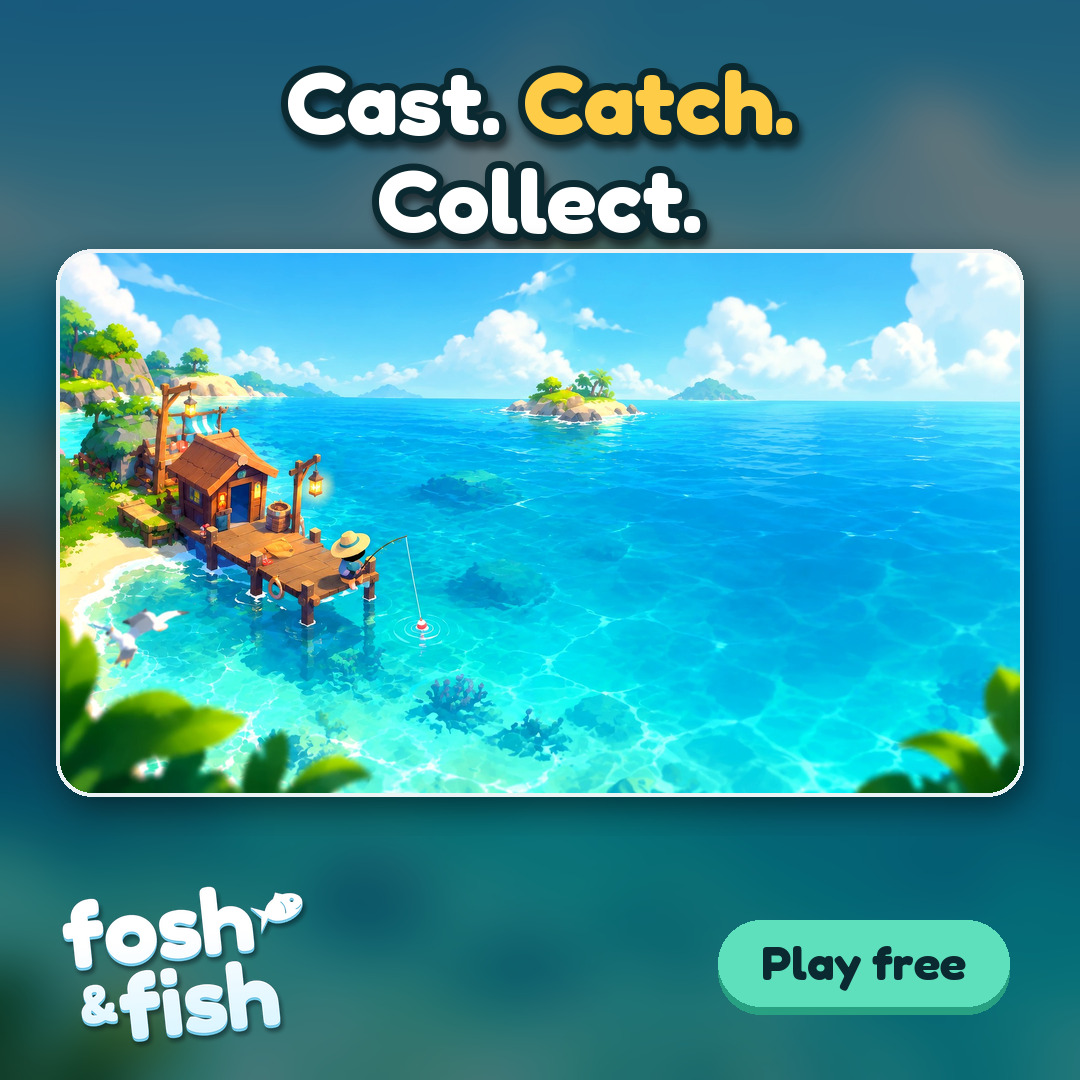
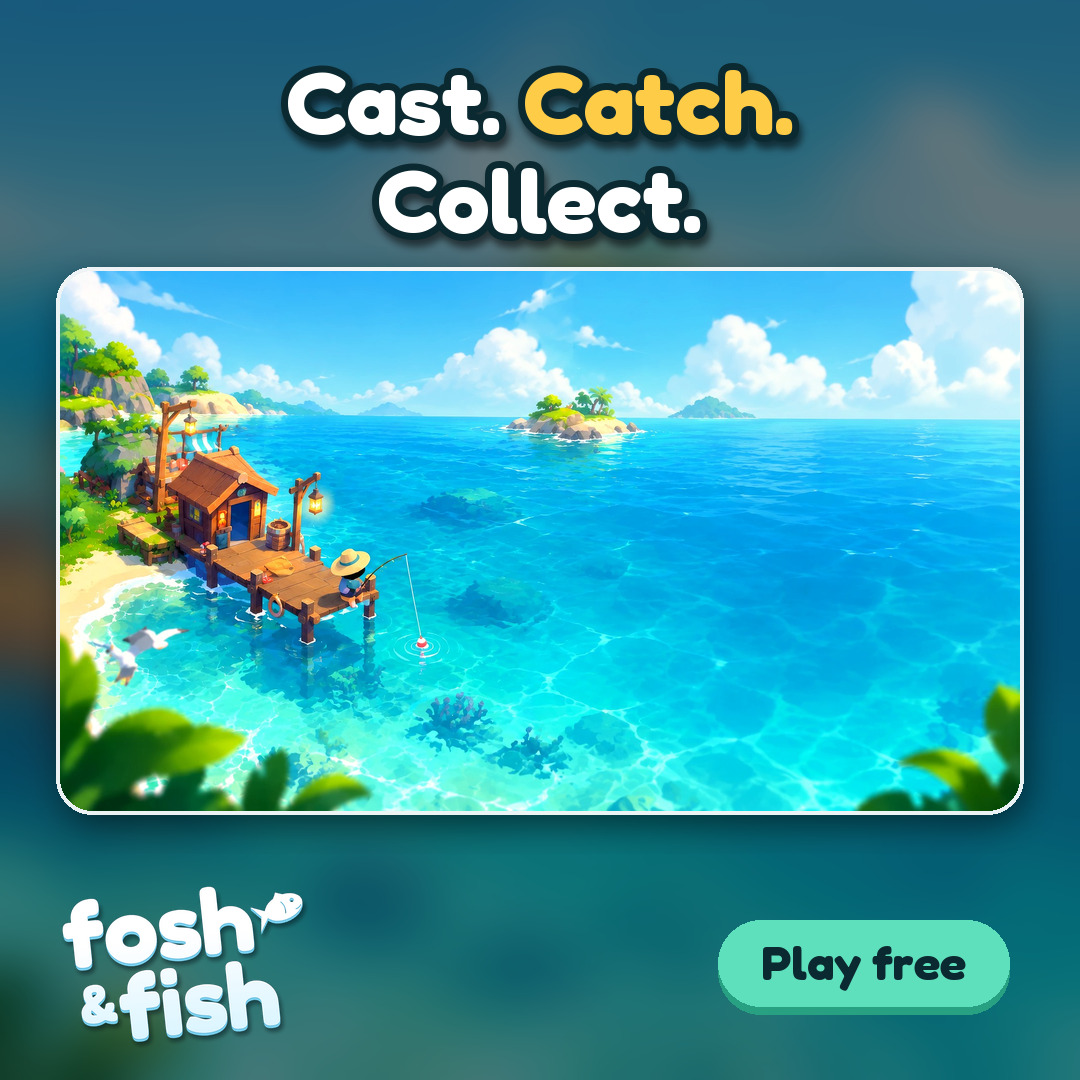
Square ads: a little air between the headline and the picture

diff --git a/tools/art/make_ads.py b/tools/art/make_ads.py
@@ -210,7 +210,7 @@ def make(idea, size_key):
         if size_key == "1080x1080":
             y = column(c, ow / 2, 40, ow * 0.92)
             card = framed(pic, 960, 540, focus if not painted else (0.5, 0.5), zoom if not painted else 1.0)
-            put(c, card, ow / 2, y + card.size[1] / 2 - 26)
+            put(c, card, ow / 2, y + card.size[1] / 2 - 8)
             lg = logo_w(250)
             put(c, lg, 60 + lg.size[0] / 2, oh - 30 - lg.size[1] / 2)
             put(c, btn, ow - 70 - btn.size[0] / 2, oh - 30 - lg.size[1] / 2)
